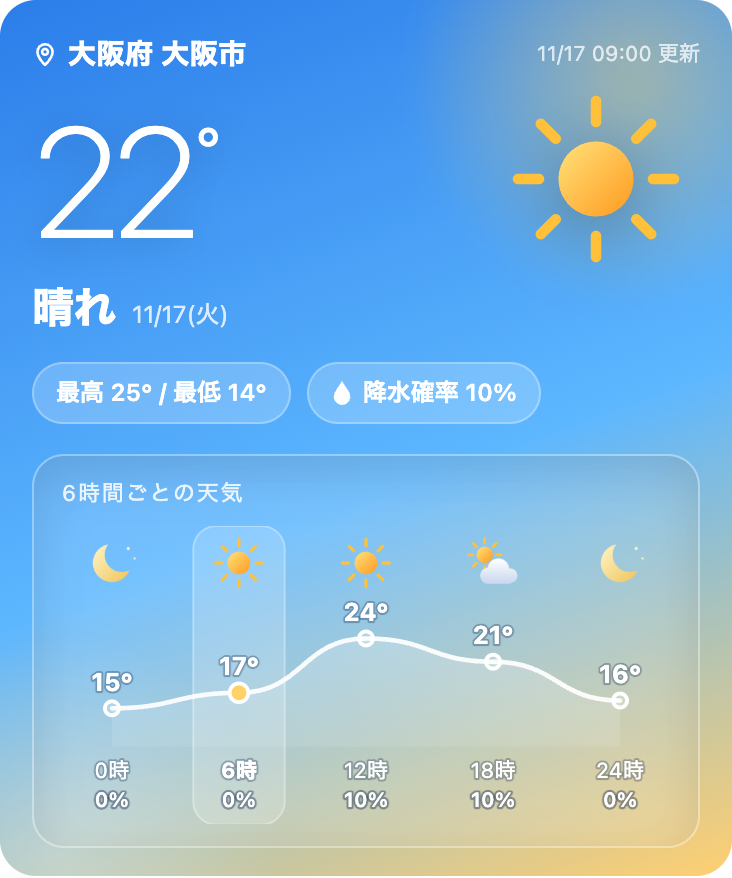
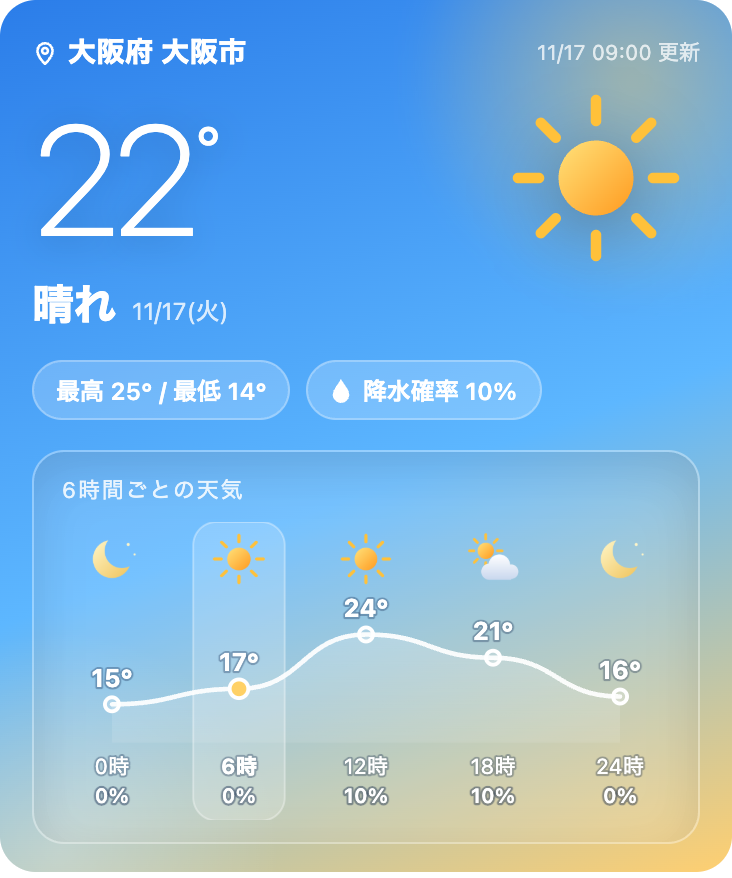
Refine landing copy and prompts and expand mobile previews

diff --git a/resources/widgets.js b/resources/widgets.js
@@ -1,5 +1,5 @@
 /* ウィジェットのサンプルと描画処理。 */
-var PREVIEW_SHELL = "\n<style>\n:root{\n  --page-bg:#ffffff;\n  --bubble-user-bg:#3a5ad1;\n  --bubble-user-text:#ffffff;\n  --bubble-ai-bg:#f2f2f7;\n  --bubble-ai-text:#1c1c1e;\n  --meta-text:#8e8e93;\n  /* Muse がウィジェットに渡すテーマ変数(推測) */\n  --hatch-widget-text:#1c1c1e;\n  --hatch-widget-muted:#6e6e73;\n  --hatch-widget-border:#d1d1d6;\n}\n@media (prefers-color-scheme: dark){\n  :root{\n    --page-bg:#000000;\n    --bubble-ai-bg:#2c2c2e;\n    --bubble-ai-text:#f2f2f7;\n    --meta-text:#8e8e93;\n    --hatch-widget-text:#f2f2f7;\n    --hatch-widget-muted:#98989f;\n    --hatch-widget-border:#3a3a3c;\n  }\n}\n*{box-sizing:border-box;}\nhtml,body{margin:0;}\nbody{\n  background:transparent;\n  font-family:-apple-system,BlinkMacSystemFont,\"Hiragino Sans\",\"Noto Sans JP\",sans-serif;\n  -webkit-text-size-adjust:100%;\n}\n/* 枠内の残りの高さに合わせ、収まらない会話はスクロールする */\n.phone{\n  display:flex;flex-direction:column;\n  width:100%;height:100vh;overflow-y:auto;\n  background:var(--page-bg);\n  position:relative;\n}\n\n.chat{flex:1 0 auto;padding:12px 12px 24px;display:flex;flex-direction:column;gap:10px;}\n.stamp{align-self:center;font-size:11px;color:var(--meta-text);margin:2px 0;}\n\n.msg{max-width:88%;}\n.msg.user{align-self:flex-end;}\n.msg.ai{align-self:flex-start;width:100%;max-width:100%;}\n.bubble{border-radius:18px;font-size:14px;line-height:1.55;padding:9px 13px;overflow-wrap:anywhere;}\n.msg.user .bubble{background:var(--bubble-user-bg);color:var(--bubble-user-text);border-bottom-right-radius:6px;}\n.msg.ai .bubble{background:var(--bubble-ai-bg);color:var(--bubble-ai-text);border-bottom-left-radius:6px;}\n/* ウィジェット入りの吹き出し: 余白をなくし、中身を角丸の内側に収める */\n.msg.ai .bubble.widget{padding:0;overflow:hidden;}\n\n\n.widget-identity{flex:none;display:flex;align-items:center;flex-direction:column;margin:0 auto 16px;}\n.widget-avatar{flex:none;width:60px;height:60px;border-radius:50%;overflow:hidden;background:var(--page-bg);border:1px solid var(--hatch-widget-border);}\n.widget-avatar img{display:block;width:100%;height:100%;object-fit:contain;transform:scale(1.12) translateY(4px);}\n.widget-badge{position:relative;z-index:1;display:block;margin-top:-7px;padding:3px 14px;border-radius:999px;background:var(--page-bg);color:var(--bubble-ai-text);box-shadow:0 3px 12px #0000000d;font-size:11px;font-weight:700;line-height:1.5;letter-spacing:.015em;}\n</style>\n<div class=\"phone\"><div class=\"widget-identity\"><div class=\"widget-avatar\"><img src=\"resources/wolly.png\" width=\"60\" height=\"60\" alt=\"Wollyのアバター\" loading=\"lazy\"></div><span class=\"widget-badge\">miwidgets</span></div><div class=\"chat\" id=\"chat\"><div class=\"stamp\">今日 9:41</div></div></div>\n";
+var PREVIEW_SHELL = "\n<style>\n:root{\n  --page-bg:#ffffff;\n  --bubble-user-bg:#3a5ad1;\n  --bubble-user-text:#ffffff;\n  --bubble-ai-bg:#f2f2f7;\n  --bubble-ai-text:#1c1c1e;\n  --meta-text:#8e8e93;\n  /* Muse がウィジェットに渡すテーマ変数(推測) */\n  --hatch-widget-text:#1c1c1e;\n  --hatch-widget-muted:#6e6e73;\n  --hatch-widget-border:#d1d1d6;\n}\n@media (prefers-color-scheme: dark){\n  :root{\n    --page-bg:#000000;\n    --bubble-ai-bg:#2c2c2e;\n    --bubble-ai-text:#f2f2f7;\n    --meta-text:#8e8e93;\n    --hatch-widget-text:#f2f2f7;\n    --hatch-widget-muted:#98989f;\n    --hatch-widget-border:#3a3a3c;\n  }\n}\n*{box-sizing:border-box;}\nhtml,body{margin:0;}\nbody{\n  background:transparent;\n  font-family:-apple-system,BlinkMacSystemFont,\"Hiragino Sans\",\"Noto Sans JP\",sans-serif;\n  -webkit-text-size-adjust:100%;\n}\n/* 枠内の残りの高さに合わせ、収まらない会話はスクロールする */\n.phone{\n  display:flex;flex-direction:column;\n  width:100%;height:100vh;overflow-y:auto;\n  background:var(--page-bg);\n  position:relative;\n}\n\n.chat{flex:1 0 auto;padding:12px 12px 24px;display:flex;flex-direction:column;gap:10px;}\n.stamp{align-self:center;font-size:11px;color:var(--meta-text);margin:2px 0;}\n\n.msg{max-width:88%;}\n.msg.user{align-self:flex-end;}\n.msg.ai{align-self:flex-start;width:100%;max-width:100%;}\n.bubble{border-radius:18px;font-size:14px;line-height:1.55;padding:9px 13px;overflow-wrap:anywhere;}\n.msg.user .bubble{background:var(--bubble-user-bg);color:var(--bubble-user-text);border-bottom-right-radius:6px;}\n.msg.ai .bubble{background:var(--bubble-ai-bg);color:var(--bubble-ai-text);border-bottom-left-radius:6px;}\n/* ウィジェット入りの吹き出し: 余白をなくし、中身を角丸の内側に収める */\n.msg.ai .bubble.widget{padding:0;overflow:hidden;}\n\n\n.widget-identity{flex:none;display:flex;align-items:center;flex-direction:column;margin:0 auto 16px;}\n.widget-avatar{flex:none;width:60px;height:60px;border-radius:50%;overflow:hidden;background:var(--page-bg);border:1px solid var(--hatch-widget-border);}\n.widget-avatar img{display:block;width:100%;height:100%;object-fit:contain;transform:scale(1.12) translateY(4px);}\n.widget-badge{position:relative;z-index:1;display:block;margin-top:-7px;padding:3px 14px;border-radius:999px;background:var(--page-bg);color:var(--bubble-ai-text);box-shadow:0 3px 12px #0000000d;font-size:11px;font-weight:700;line-height:1.5;letter-spacing:.015em;}\n\nhtml.expanded-preview,html.expanded-preview body{height:auto;overflow:visible;}\n.expanded-preview .phone{height:auto;overflow:visible;}\n</style>\n<div class=\"phone\"><div class=\"widget-identity\"><div class=\"widget-avatar\"><img src=\"resources/wolly.png\" width=\"60\" height=\"60\" alt=\"Wollyのアバター\" loading=\"lazy\"></div><span class=\"widget-badge\">miwidgets</span></div><div class=\"chat\" id=\"chat\"><div class=\"stamp\">今日 9:41</div></div></div>\n";
 
 /* プレビュー用のデータはここで管理する。テンプレート本体は template/ に置く。 */
 var WEATHER_SCENARIOS = [
@@ -107,29 +107,46 @@ if (location.protocol === 'file:') {
     sec.querySelector('h2').textContent = t.name;
     var prompts = document.createElement('div');
     prompts.className = 'widget-prompts';
-    [
-      { label: '登録する', text: 'miwidgets.com の' + t.name + 'ウィジェットを登録' },
-      { label: '使ってみる', text: PROMPT_EXAMPLES[t.id] }
-    ].forEach(function(example, index){
-      var row = document.createElement('div');
-      row.className = 'prompt-example';
-      row.innerHTML = '<p></p><button type="button" class="copy-button prompt-copy" data-copy="' + t.id + '-prompt-' + index + '">プロンプトをコピー <span aria-hidden="true">↗</span></button>';
-      var text = row.querySelector('p');
-      text.id = t.id + '-prompt-' + index;
-      text.textContent = example.text;
-      row.querySelector('button').setAttribute('aria-label', t.name + 'を' + example.label + 'プロンプトをコピー');
-      prompts.appendChild(row);
-    });
+    var row = document.createElement('div');
+    row.className = 'prompt-example';
+    row.innerHTML = '<p></p><button type="button" class="copy-button prompt-copy" data-copy="' + t.id + '-prompt">プロンプトをコピー <span aria-hidden="true">↗</span></button>';
+    var text = row.querySelector('p');
+    text.id = t.id + '-prompt';
+    text.textContent = PROMPT_EXAMPLES[t.id];
+    row.querySelector('button').setAttribute('aria-label', t.name + 'のプロンプトをコピー');
+    prompts.appendChild(row);
     sec.appendChild(prompts);
     var link = sec.querySelector('footer a');
     link.href = t.file;
     link.textContent = 'ソース ↗';
     var frame = sec.querySelector('iframe');
     frame.title = t.name;
-    frame.addEventListener('load', function(){ renderPreview(frame, t); }, {once: true});
+    frame.addEventListener('load', function(){
+      configurePreviewSize(frame);
+      renderPreview(frame, t);
+    }, {once: true});
     frame.srcdoc = '<!doctype html><html lang="ja"><head><meta charset="utf-8"><meta name="viewport" content="width=device-width, initial-scale=1"><title>' + t.name + ' プレビュー</title></head><body>' + PREVIEW_SHELL + '</body></html>';
     main.appendChild(sec);
   });
+}
+
+/* スマホ表示では内容に合わせて伸ばし、ページ全体でスクロールする。 */
+function configurePreviewSize(frame){
+  var doc = frame.contentDocument;
+  var phone = doc.querySelector('.phone');
+  var mobile = window.matchMedia('(max-width: 768px)');
+  function resize(){
+    doc.documentElement.classList.toggle('expanded-preview', mobile.matches);
+    if (mobile.matches) {
+      var height = Math.ceil(phone.getBoundingClientRect().height) + 'px';
+      if (frame.style.height !== height) frame.style.height = height;
+    } else {
+      frame.style.removeProperty('height');
+    }
+  }
+  new ResizeObserver(resize).observe(phone);
+  mobile.addEventListener('change', resize);
+  resize();
 }
 
 /* テンプレートごとに iframe を分け、CSS と状態を独立させる。 */

diff --git a/resources/landing.css b/resources/landing.css
@@ -14,10 +14,9 @@ svg{display:block}
 /* Registration instructions come first in HTML; preserve the LP's visual order. */
 #page-main{display:grid;grid-template-columns:minmax(0,1fr)}
 #page-main>.hero{grid-row:1}
-#page-main>.how-section{grid-row:2}
-#page-main>.widgets-section{grid-row:3}
-#page-main>.closing{grid-row:4}
-#page-main>.instruction-section{grid-row:5}
+#page-main>.widgets-section{grid-row:2}
+#page-main>.closing{grid-row:3}
+#page-main>.instruction-section{grid-row:4}
 .site-header{height:88px;display:flex;align-items:center;justify-content:space-between;gap:24px;position:relative;z-index:3}
 .brand{display:inline-flex;gap:10px;align-items:center;text-decoration:none;font-size:20px;font-weight:800;letter-spacing:-.8px;line-height:1}
 .brand img{width:36px;height:36px;object-fit:contain}
@@ -32,24 +31,14 @@ h1 em{font-style:normal;color:var(--accent)}
 .hero-title-line{display:block;white-space:nowrap;font-size:.8em}
 .hero-lead{font-size:16px;line-height:2;color:var(--muted);margin-bottom:28px}
 .hero-lead strong{font-weight:650;color:var(--ink)}
-.hero-actions{display:flex;align-items:center;margin-top:23px}
-.text-link{font-size:14px;font-weight:650;text-decoration:none;border-bottom:1px solid var(--line);padding-bottom:3px}
-.text-link span{margin-left:12px}
+.install-callout{font-size:clamp(20px,1.8vw,25px);font-weight:800;line-height:1.6;color:var(--accent);margin:0 0 18px;letter-spacing:-.025em}
 .prompt-pane{border:1px solid var(--line);border-radius:16px;background:var(--surface);padding:16px 18px;max-width:590px;box-shadow:0 5px 20px #17102b04}
-.prompt-text{font-size:clamp(13px,1.35vw,16px);font-weight:650;line-height:1.9;margin:0;overflow-wrap:anywhere;letter-spacing:-.035em}
+.prompt-text{margin:0;padding:9px 13px;border-radius:18px 18px 6px 18px;background:#e3e6e9;color:#1c1c1e;font-size:14px;font-weight:400;line-height:1.55;overflow-wrap:anywhere}
 .copy-button,.primary-button{border:0;border-radius:9px;background:var(--accent);color:#fff;display:inline-flex;align-items:center;justify-content:center;gap:12px;padding:13px 21px;font-size:12px;font-weight:750;line-height:1.5;text-decoration:none;transition:background .2s,transform .2s;white-space:normal}
 .copy-button:hover,.primary-button:hover{transform:translateY(-2px);filter:brightness(1.07)}
 .prompt-pane .copy-button{margin-top:14px;width:100%;padding:12px 15px}
 .section-title{font-size:clamp(27px,3vw,40px);letter-spacing:-.05em;line-height:1.55;font-weight:750;margin:0 0 16px}
 .section-note{font-size:14px;color:var(--muted);line-height:2;margin:0}
-.how-section{padding:78px 0;border-top:1px solid var(--line)}
-.how-intro{display:flex;justify-content:space-between;align-items:end;gap:30px;margin-bottom:35px}
-.how-intro .section-note{max-width:360px}
-.steps{display:grid;grid-template-columns:repeat(3,minmax(0,1fr));gap:32px;list-style:none;padding:0;margin:0}
-.step{position:relative;padding-top:18px;border-top:1px solid var(--line)}
-.step-number{font-size:11px;font-weight:700;color:var(--accent);letter-spacing:.06em}
-.step h3{font-size:16px;margin:16px 0 8px;letter-spacing:-.025em}
-.step p{font-size:14px;color:var(--muted);line-height:1.95;margin:0}
 .instruction-section{padding:70px 0 80px;background:var(--secondary)}
 .instruction-layout{display:grid;grid-template-columns:.85fr 1.15fr;gap:65px;align-items:start;min-width:0}
 .instruction-copy .section-note{max-width:370px}
@@ -64,13 +53,13 @@ h1 em{font-style:normal;color:var(--accent)}
 .instruction-doc a{color:var(--accent)}
 .widgets-section{padding:90px 0 45px;background:var(--gallery)}
 .widget-heading{display:flex;justify-content:space-between;align-items:end;gap:24px;margin-bottom:36px}
-.widget-heading .section-note{font-size:14px;max-width:330px}
 .widget-grid{display:grid;grid-template-columns:repeat(auto-fill,390px);gap:32px 24px;padding:12px 16px 40px;align-items:start;justify-content:center;max-width:1350px;margin:auto}
 .widget-preview{width:390px;max-width:100%;min-width:0;scroll-margin-top:80px}
 .widget-prompts{margin-top:20px;padding:0 4px}
-.prompt-example{width:100%;padding:15px;margin-top:10px;border:1px solid var(--line);border-radius:12px;background:var(--surface)}
-.prompt-example p{margin:0;font-size:14px;font-weight:400;line-height:1.9;letter-spacing:normal;overflow-wrap:anywhere;user-select:text}
-.prompt-example .copy-button{width:100%;margin-top:12px;padding:8px 15px;background:rgba(132,96,207,.85)}
+.prompt-example{width:100%}
+.prompt-example p{margin:0;padding:9px 13px;border-radius:18px 18px 6px 18px;background:#e3e6e9;color:#1c1c1e;font-size:14px;font-weight:400;line-height:1.55;letter-spacing:normal;overflow-wrap:anywhere;user-select:text}
+.prompt-example .copy-button{width:100%;margin-top:12px;padding:7px 15px;background:inherit;color:#7852d5;border:1px solid #7852d577;font-weight:600}
+.prompt-example .copy-button:hover{filter:none;transform:none}
 .phone-box{display:flex;flex-direction:column;width:390px;max-width:100%;height:900px;scroll-margin-top:80px;background:var(--phone-bg,#fff);color:var(--phone-text,#1c1c1e);border-radius:28px;box-shadow:0 2px 8px #00000014;overflow:hidden;line-height:1.8}
 .phone-box h2{flex:none;font-size:15px;margin:0;padding:20px 16px 12px;letter-spacing:0;text-align:center}
 .phone-box footer{flex:none;padding:12px 16px 16px;text-align:right}
@@ -98,6 +87,7 @@ h1 em{font-style:normal;color:var(--accent)}
 .hero-weather-shot{position:absolute;top:20px;left:0;width:290px;margin:0;transform:rotate(-4deg);z-index:2}
 .hero-route-shot{position:absolute;top:275px;right:0;width:300px;margin:0;transform:rotate(3deg);z-index:1}
 .hero-route-shot img,.hero-weather-shot img{display:block;width:100%;height:auto;border:1px solid #ebeaf0;border-radius:20px;box-shadow:0 16px 45px #241e361a;background:#fff}
+.hero-weather-shot img{border:0;border-radius:0;box-shadow:none;background:transparent;filter:drop-shadow(0 16px 22px #241e361a)}
 @media(min-width:1500px){
 .hero h1{font-size:68px}}
 @media(max-width:1050px){
@@ -117,29 +107,19 @@ html{scroll-padding-top:20px}
 .nav-cta{padding:7px 10px}
 .hero h1{font-size:40px;line-height:1.45;letter-spacing:-.065em}
 .hero-lead{font-size:14px;margin-bottom:24px}
-.hero-actions{gap:18px}
 .prompt-pane{max-width:none}
-.prompt-text{font-size:13px}
 .copy-button{font-size:12px;padding:12px 17px}
 .hero{display:flex;flex-direction:column;align-items:stretch;gap:18px;min-height:0;padding:34px 0 45px}
-.how-section{padding:48px 0}
-.how-intro{display:block;margin-bottom:26px}
 .section-title{font-size:28px}
-.how-intro .section-note{max-width:none;margin-top:10px}
-.steps{grid-template-columns:1fr;gap:22px}
-.step{display:grid;grid-template-columns:35px 1fr;gap:0 12px;padding-top:18px}
-.step-number{grid-row:1/3;padding-top:2px}
-.step h3{font-size:15px;margin:0 0 6px}
-.step p{font-size:12px}
 .instruction-section{padding:48px 0}
 .instruction-layout{grid-template-columns:1fr;gap:25px}
 .instruction-copy .section-note{max-width:none}
 .instruction-doc{padding:20px;font-size:12px}
 .widgets-section{padding:48px 0 24px}
 .widget-heading{display:block;margin-bottom:26px}
-.widget-heading .section-note{max-width:none;margin-top:10px}
 .widget-grid{grid-template-columns:minmax(0,1fr);padding:0;gap:24px}
-.phone-box{width:100%;border-radius:0;box-shadow:none!important}
+.phone-box{width:100%;height:auto;border-radius:0;box-shadow:none!important;overflow:visible}
+.phone-box iframe{flex:none}
 .widget-preview{width:100%}
 .widget-prompts{padding:0 20px;margin-bottom:10px}
 .closing{padding:48px 0}
@@ -153,7 +133,7 @@ html{scroll-padding-top:20px}
 .brand{font-size:16px}
 .site-nav{gap:10px}
 .nav-cta{padding:6px 8px}
-.prompt-text{font-size:11px}}
+}
 @media(prefers-reduced-motion:reduce){
 html{scroll-behavior:auto}
 *,*::before,*::after{transition:none!important}}

diff --git a/index.html b/index.html
@@ -30,7 +30,7 @@
 <a class="skip-link" href="#page-main">本文へスキップ</a>
 <header class="site-header wrap">
   <a class="brand" href="index.html" aria-label="miwidgets ホーム"><img src="resources/miwidgets.png" width="36" height="36" alt="">miwidgets<span class="domain">.com</span></a>
-  <nav class="site-nav" aria-label="メインナビゲーション"><a href="#how">使い方</a><a class="nav-instructions" href="#instructions">Museへの指示</a><a class="nav-cta" href="#widgets">ウィジェット一覧 ↗</a></nav>
+  <nav class="site-nav" aria-label="メインナビゲーション"><a class="nav-instructions" href="#instructions">Museへの指示</a><a class="nav-cta" href="#widgets">ウィジェット一覧 ↗</a></nav>
 </header>
 <main id="page-main">
 <section class="instruction-section" id="instructions" aria-labelledby="instruction-title"><div class="instruction-layout wrap">
@@ -48,18 +48,14 @@
 <tr><th scope="row"><a href="https://miwidgets.com/template/secret.html">秘密のメッセージ</a></th><td>6桁のパスコードで開くメッセージ</td></tr>
     </tbody></table>
     <h3>更新の確認</h3>
-    <p>現在のバージョン：<strong class="current-version">1.0.5</strong></p>
+    <p>現在のバージョン：<strong class="current-version">1.0.6</strong></p>
     <p>使う前に <a href="https://miwidgets.com/version.txt">miwidgets.com/version.txt</a> のバージョンを確認してください。前回と番号が変わっていたら、必要なテンプレートを再取得してください。</p>
   </div>
 </div></section>
-<section class="hero wrap" aria-labelledby="hero-title"><div class="hero-copy"><h1 id="hero-title"><span class="hero-title-line">Museのチャットに、</span><em>ウィジェット</em>を。</h1><p class="hero-lead"><strong>Museのチャット内に、天気や乗換案内を表示できます。</strong><br>クイズに答えたり、おみくじを引いたり。<br>吹き出しの中で、そのまま使えるウィジェットです。</p><div class="prompt-pane"><p class="prompt-text" id="registration-prompt">miwidgets.com のウィジェットを登録して</p><button class="copy-button" type="button" data-copy="registration-prompt">プロンプトをコピー <span aria-hidden="true">↗</span></button></div><div class="hero-actions"><a class="text-link" href="#widgets">ウィジェットを見てみる <span>↓</span></a></div></div><div class="hero-visual" aria-label="チャット内のウィジェット表示例"><figure class="hero-weather-shot"><img src="resources/ogp-weather-widget.png" width="732" height="878" alt="天気ウィジェットの表示例。晴れの天気と気温、6時間ごとの予報" fetchpriority="high"></figure><figure class="hero-route-shot"><img src="resources/hero-route-widget.png" width="732" height="842" alt="乗換案内の行程。07:58 新宿 3番線発から国際会館までの乗換と時刻を表示" fetchpriority="high"></figure></div></section>
-<section class="how-section" id="how" aria-labelledby="how-title"><div class="wrap">
-  <div class="how-intro"><div><h2 class="section-title" id="how-title">はじめ方は、ひとこと。</h2></div></div>
-  <ol class="steps"><li class="step"><span class="step-number">01</span><h3>プロンプトをコピー</h3><p>上の「プロンプトをコピー」を押して、<br>登録用のひとことをコピーします。</p></li><li class="step"><span class="step-number">02</span><h3>Museに送る</h3><p>コピーした文章をMuseのチャットに<br>貼り付けて、送信します。</p></li><li class="step"><span class="step-number">03</span><h3>会話の中で使ってみる</h3><p>「今日の天気を見せて」「クイズを出して」。<br>表示されたウィジェットを、チャット内で使えます。</p></li></ol>
-</div></section>
+<section class="hero wrap" aria-labelledby="hero-title"><div class="hero-copy"><h1 id="hero-title"><span class="hero-title-line">Museのチャットに、</span><em>ウィジェット</em>を。</h1><p class="hero-lead"><strong>Museの吹き出しの中にウィジェットを表示できるのご存知ですか？</strong></p><p class="hero-lead">天気や乗換案内、チャートからクイズまで。<br>リッチなコンテンツがチャットの中だけで体験できます。</p><p class="install-callout">インストールはプロンプトを入力するだけ！</p><div class="prompt-pane"><p class="prompt-text" id="registration-prompt">miwidgets.com のウィジェットを登録して</p><button class="copy-button" type="button" data-copy="registration-prompt">プロンプトをコピー <span aria-hidden="true">↗</span></button></div></div><div class="hero-visual" aria-label="チャット内のウィジェット表示例"><figure class="hero-weather-shot"><img src="resources/ogp-weather-widget.png" width="732" height="878" alt="天気ウィジェットの表示例。晴れの天気と気温、6時間ごとの予報" fetchpriority="high"></figure><figure class="hero-route-shot"><img src="resources/hero-route-widget.png" width="732" height="842" alt="乗換案内の行程。07:58 新宿 3番線発から国際会館までの乗換と時刻を表示" fetchpriority="high"></figure></div></section>
 
 <section class="widgets-section" id="widgets" aria-labelledby="widgets-title">
-  <div class="widget-heading wrap"><div><h2 class="section-title" id="widgets-title">何を追加しよう？</h2></div><p class="section-note">下のサンプルは、そのまま操作できます。<br>天気・乗り換え案内は枠内をスクロール。<br>秘密のメッセージのパスコードは 123456。</p></div>
+  <div class="widget-heading wrap"><div><h2 class="section-title" id="widgets-title">何を追加しよう？</h2></div></div>
   <div class="widget-grid" id="main"></div>
   <noscript><p class="wrap">ウィジェットのサンプルを見るにはJavaScriptを有効にしてください。テンプレートのリンクは「Museへの指示」に記載しています。</p></noscript>
 </section>

diff --git a/docs/development.md b/docs/development.md
@@ -22,7 +22,7 @@ python3 -m http.server 8000
 
 `index.html` は `template/` の HTML を `fetch` で読み込むため、`file://` では表示できません。テンプレートごとに iframe を分け、CSS や JavaScript の干渉を防いでいます。
 
-スマホ風の画面は高さ900pxに固定し、内容が収まらない場合は画面内でスクロールします。吹き出しの見た目は推測による再現で、実際の Muse の画面とは異なります。
+PC表示ではスマホ風の画面を高さ900pxに固定し、内容が収まらない場合は画面内でスクロールします。幅768px以下では高さ制限と枠内のスクロールをなくし、iframeを内容の高さに合わせてページ全体でスクロールします。吹き出しの見た目は推測による再現で、実際の Muse の画面とは異なります。
 
 天気は7パターン、乗り換え案内は端末の時計と現在時刻を固定した5パターンを表示します。秘密のメッセージのパスコードは `123456` です。
 
@@ -34,7 +34,7 @@ python3 -m http.server 8000
 
 サンプルの会話や天気・経路のシナリオは `resources/widgets.js` で管理します。ウィジェットの仕様や作成方針は [仕様メモ](inline-widget-spec.md#テンプレート作成時のガイドライン) を参照してください。
 
-各スマホboxの下には、登録用と利用用のプロンプト例を表示します。利用用の文面は同ファイルの `PROMPT_EXAMPLES` で管理し、コピー処理は `resources/landing.js` で共用します。
+各スマホboxの下には、利用用のプロンプト例を1つだけ表示します。本文は背景色 `#e3e6e9`・濃色の文字のチャット風の吹き出しにします。文面は同ファイルの `PROMPT_EXAMPLES` で管理し、コピー処理は `resources/landing.js` で共用します。
 
 各スマホbox内の最上部にタイトルを中央揃えで置き、その下に60pxの円形アバターと「miwidgets」バッジを配置します。Wollyはこのアバターに使用し、ヒーローやOGPのメインビジュアルには使用しません。
 
@@ -44,7 +44,9 @@ python3 -m http.server 8000
 
 OGP内の資産損益推移画像は `resources/hero-assets-widget.png`（366 × 500pxの表示を2倍解像度で撮影）を、天気画像は `resources/ogp-weather-widget.png`（チャット部分を含まない、366 × 439pxのウィジェットを2倍解像度で撮影）を使用します。
 
-Muse向けの登録手順はHTMLの `main` 内の先頭に置き、JavaScriptなしでもテンプレートへのリンクと更新確認方法を読めるようにします。画面ではCSS Gridでヒーロー・使い方・ウィジェット一覧・登録への案内・登録手順の順に表示し、登録手順を本文の一番下に置きます。登録手順自体は非表示や折りたたみにしません。
+天気画像は角丸の外側を透過にします。HTMLから画像を書き出す際は、ページの白い背景を合成せず、透過を保持してください。ヒーロー側でも白い下地や枠線は重ねません。
+
+Muse向けの登録手順はHTMLの `main` 内の先頭に置き、JavaScriptなしでもテンプレートへのリンクと更新確認方法を読めるようにします。画面ではCSS Gridでヒーロー・ウィジェット一覧・登録への案内・登録手順の順に表示し、登録手順を本文の一番下に置きます。登録手順自体は非表示や折りたたみにしません。
 
 OGP画像は `resources/ogp.png` を直接更新します。画像サイズは1200 × 630pxとし、主要な内容は中央834 × 630pxに収めます。ロゴ・見出し・登録文・ウィジェットの紹介は中央630 × 630pxで切り取っても残るようにします。
 
